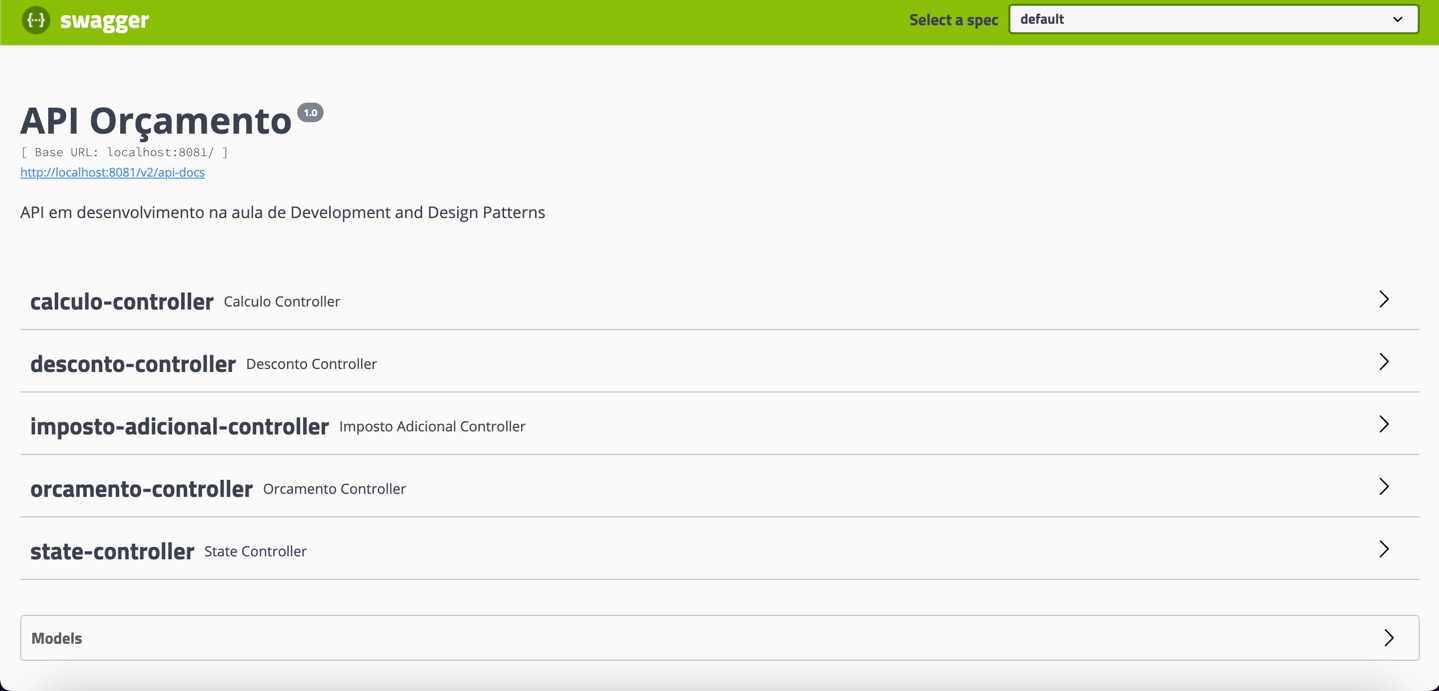
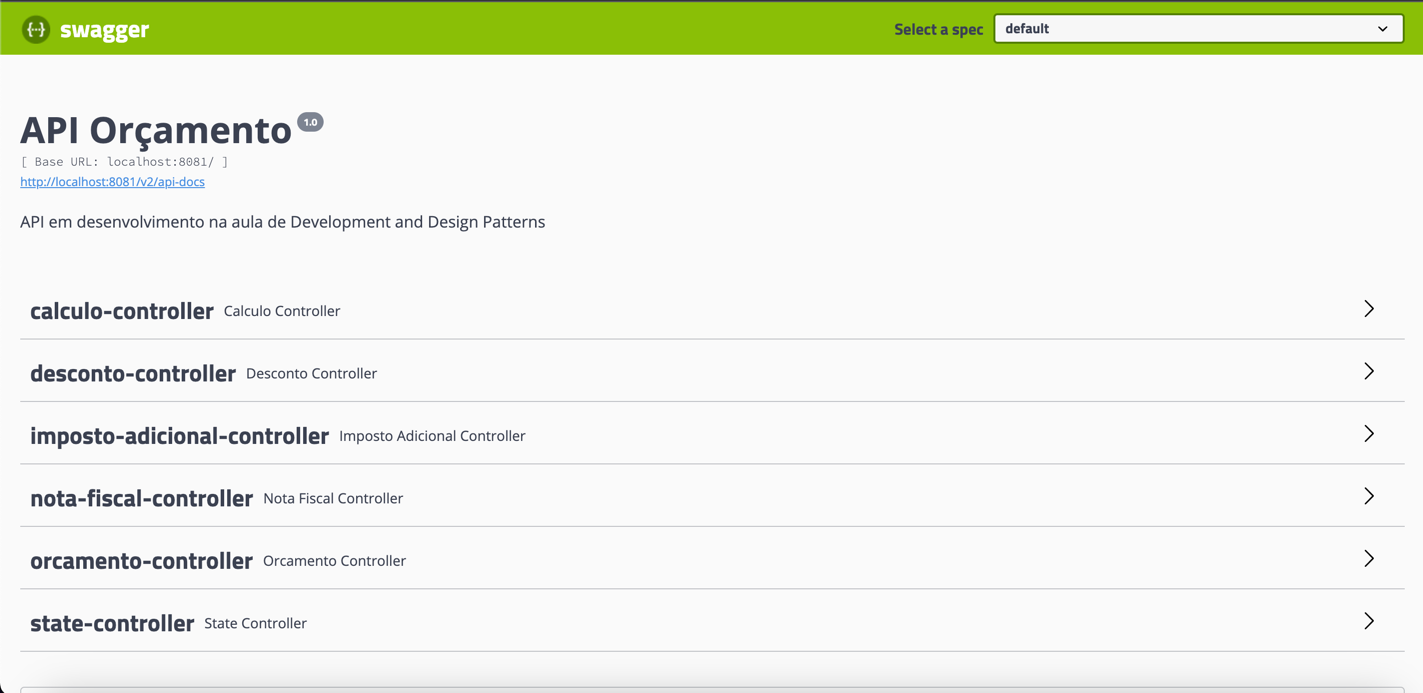
:construction: feat: add new get note in desgin patterns Builder - 12/04

diff --git a/src/main/java/com/develop/orcamentoapi/OrcamentoAPI/Domain/NotaFiscal.java b/src/main/java/com/develop/orcamentoapi/OrcamentoAPI/Domain/NotaFiscal.java
@@ -1,0 +1,99 @@
+package com.develop.orcamentoapi.OrcamentoAPI.Domain;
+import org.hibernate.annotations.GenericGenerator;
+
+import javax.persistence.*;
+import java.util.List;
+import java.time.LocalDateTime;
+@Entity
+@Table(name = "tb_nota")
+public class NotaFiscal {
+    private String razaoSocial;
+    @Id
+    @GenericGenerator(name = "uuid2", strategy = "uuid2")
+    @org.hibernate.annotations.Type(type="uuid-char")
+    @GeneratedValue(strategy = GenerationType.AUTO)
+    private String UUID;
+//        private String razaoSocial;
+        private String cnpj;
+        private double valorTotal;
+        private double impostos;
+        private LocalDateTime data;
+        private String observacoes;
+
+        private NotaFiscal(String razaoSocial, String cnpj, double valorTotal, double impostos, LocalDateTime data, String observacoes) {
+            this.razaoSocial = razaoSocial;
+            this.cnpj = cnpj;
+            this.valorTotal = valorTotal;
+            this.impostos = impostos;
+            this.data = data;
+            this.observacoes = observacoes;
+        }
+
+        public String getRazaoSocial() {
+            return razaoSocial;
+        }
+
+        public String getCnpj() {
+            return cnpj;
+        }
+
+        public double getValorTotal() {
+            return valorTotal;
+        }
+
+        public double getImpostos() {
+            return impostos;
+        }
+
+        public LocalDateTime getData() {
+            return data;
+        }
+
+        public String getObservacoes() {
+            return observacoes;
+        }
+
+        public static class Builder {
+
+            private String razaoSocial;
+            private String cnpj;
+            private double valorTotal;
+            private double impostos;
+            private LocalDateTime data;
+            private String observacoes;
+
+            public Builder comRazaoSocial(String razaoSocial) {
+                this.razaoSocial = razaoSocial;
+                return this;
+            }
+
+            public Builder comCnpj(String cnpj) {
+                this.cnpj = cnpj;
+                return this;
+            }
+
+            public Builder comValorTotal(double valorTotal) {
+                this.valorTotal = valorTotal;
+                return this;
+            }
+
+            public Builder comImpostos(double impostos) {
+                this.impostos = impostos;
+                return this;
+            }
+
+            public Builder comData(LocalDateTime data) {
+                this.data = data;
+                return this;
+            }
+
+            public Builder comObservacoes(String observacoes) {
+                this.observacoes = observacoes;
+                return this;
+            }
+
+            public NotaFiscal build() {
+                return new NotaFiscal(razaoSocial, cnpj, valorTotal, impostos, data, observacoes);
+            }
+        }
+    }

diff --git a/src/main/java/com/develop/orcamentoapi/OrcamentoAPI/Controller/OrcamentoController.java b/src/main/java/com/develop/orcamentoapi/OrcamentoAPI/Controller/OrcamentoController.java
@@ -23,13 +23,14 @@ public class OrcamentoController {
     private OrcamentoServices orcamentoServices;
 
 
-    @PostMapping(path = "api/orcamento/calculo/{value}/{icms}/{pis}/{cofins}/{iss}")
+    @PostMapping(path = "api/orcamento/calculo/{value}/{icms}/{pis}/{cofins}/{iss}/{qtd}")
     @ApiOperation(value = "Calcular orçamento com todos os impostos")
     public ResponseEntity<ResponseCalculoTotal> realizaCalulo(
             @PathVariable(value = "value", required = false)Double value,
             @PathVariable(value = "icms", required = false)Double icms,
             @PathVariable(value = "pis", required = false)Double pis,
             @PathVariable(value = "cofins", required = false)Double cofins,
+            @PathVariable(value = "qtd", required = false)int qtd,
             @PathVariable(value = "iss", required = false)Double iss){
         final COFINS objectCofins = new COFINS();
         final PIS objectPis = new PIS();
@@ -37,6 +38,7 @@ public class OrcamentoController {
         final ICMS objectIcms= new ICMS();
         final Orcamento orcamento = new Orcamento();
         orcamento.setValor(value);
+        orcamento.setQtd(qtd);
         orcamento.setState("EM_APROVACAO");
         objectCofins.setValor(cofins);
         objectIcms.setValor(icms);
@@ -81,7 +83,7 @@ public class OrcamentoController {
     }
 
     @DeleteMapping(path = "api/orcamento/delete")
-    @ApiOperation(value = "Excluir URL")
+    @ApiOperation(value = "Excluir Orçamento")
     public ResponseEntity delete(@RequestBody Orcamento orcamento){
         orcamentoServices.delete(orcamento);
         return ResponseEntity.status(HttpStatus.OK).body(true);

diff --git a/src/main/java/com/develop/orcamentoapi/OrcamentoAPI/Controller/NotaFiscalController.java b/src/main/java/com/develop/orcamentoapi/OrcamentoAPI/Controller/NotaFiscalController.java
@@ -1,0 +1,27 @@
+package com.develop.orcamentoapi.OrcamentoAPI.Controller;
+import com.develop.orcamentoapi.OrcamentoAPI.Domain.NotaFiscal;
+import io.swagger.annotations.ApiOperation;
+import org.springframework.http.HttpStatus;
+import org.springframework.http.ResponseEntity;
+import org.springframework.web.bind.annotation.GetMapping;
+import org.springframework.web.bind.annotation.RestController;
+
+import java.time.LocalDateTime;
+
+@RestController
+public class NotaFiscalController {
+
+    @GetMapping(path = "api/nota/")
+    @ApiOperation(value = "Consulta nota fiscal")
+    public ResponseEntity consultaNotaFiscal(){
+        NotaFiscal notaFiscal = new NotaFiscal.Builder()
+                .comRazaoSocial("Minha Empresa Ltda.")
+                .comCnpj("12.345.678/0001-90")
+                .comValorTotal(1000.00)
+                .comImpostos(150.00)
+                .comData(LocalDateTime.now())
+                .comObservacoes("Esta é uma nota fiscal de teste.")
+                .build();
+        return ResponseEntity.status(HttpStatus.OK).body(notaFiscal);
+    }
+}

diff --git a/src/main/java/com/develop/orcamentoapi/OrcamentoAPI/Domain/ItemDaNota.java b/src/main/java/com/develop/orcamentoapi/OrcamentoAPI/Domain/ItemDaNota.java
@@ -1,0 +1,31 @@
+package com.develop.orcamentoapi.OrcamentoAPI.Domain;
+
+public class ItemDaNota {
+    public String nome;
+
+    public ItemDaNota(String nome, Double valor) {
+        this.nome = nome;
+        this.valor = valor;
+    }
+
+    public String getNome() {
+        return nome;
+    }
+
+    public void setNome(String nome) {
+        this.nome = nome;
+    }
+
+    public Double getValor() {
+        return valor;
+    }
+
+    public void setValor(Double valor) {
+        this.valor = valor;
+    }
+
+    public ItemDaNota() {
+    }
+
+    public Double valor;
+}

diff --git a/src/main/java/com/develop/orcamentoapi/OrcamentoAPI/Controller/ImpostoAdicionalController.java b/src/main/java/com/develop/orcamentoapi/OrcamentoAPI/Controller/ImpostoAdicionalController.java
@@ -39,7 +39,7 @@ public class ImpostoAdicionalController {
     }
 
 
-    @GetMapping(path = "api/orcamento/calculocondicional/IHIT}")
+    @GetMapping(path = "api/orcamento/calculocondicional/IHIT")
     @ApiOperation(value = "Calcular de imposto condicional")
     public ResponseEntity realizaCaluloCondicionalIHIT(){
         Optional<OrcamentoTempleteDTO> orcamentoTempleteDTO = Optional.of(new OrcamentoTempleteDTO());
